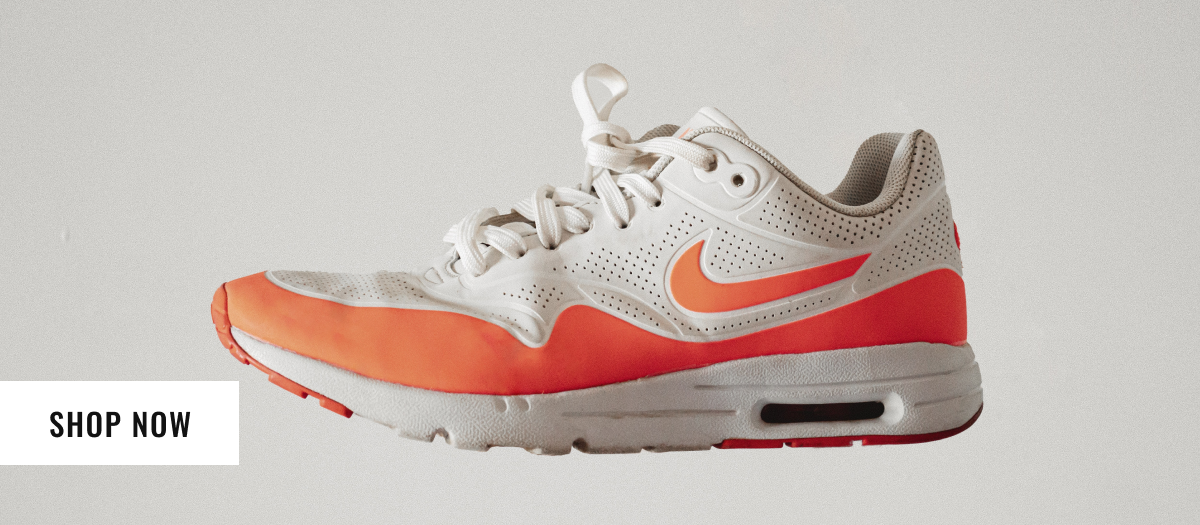
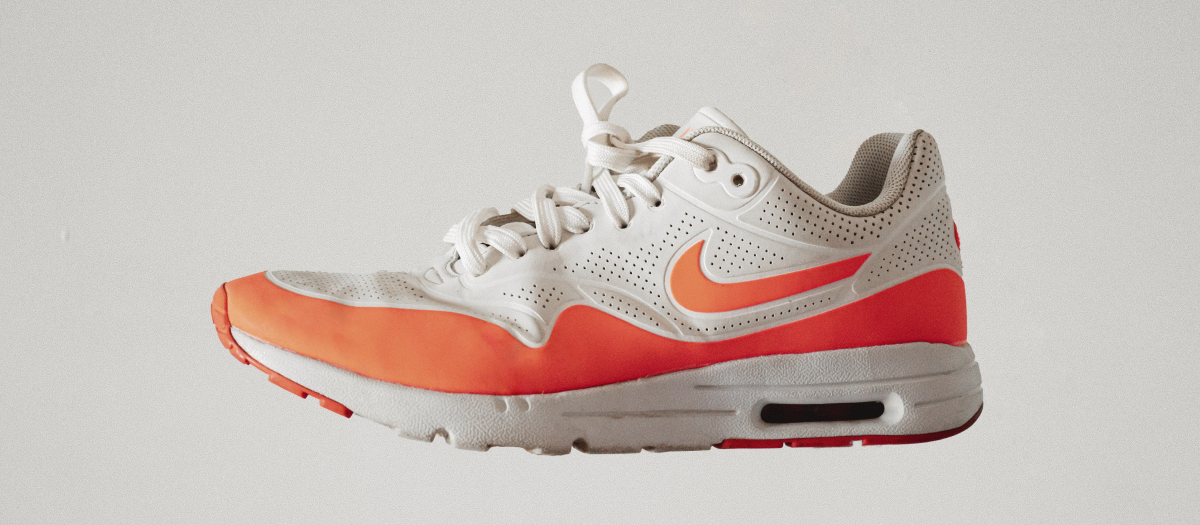
building homepage UI

Changed region(s): [[0.0, 0.701, 0.2158, 0.8838]]

diff --git a/frontent/components/Header.jsx b/frontent/components/Header.jsx
@@ -1,23 +1,105 @@
-import React from "react";
+import { useState, useEffect } from "react";
+import { IoMdHeartEmpty } from "react-icons/io";
+import { BsCart, BsChevronDown } from "react-icons/bs";
+import { BiSearch } from "react-icons/bi";
 
 import Wrapper from "./Wrapper";
 
 const Header = () => {
+    const [showCatMenu, setShowCatMenu] = useState(false);
+    const [show, setShow] = useState("top");
+    const [lastScrollY, setLastScrollY] = useState(0);
+
+    const controlNavbar = () => {
+        if (window.scrollY > 200) {
+            // if (window.scrollY > lastScrollY && !mobileMenu) {
+            if (window.scrollY > lastScrollY) {
+                setShow("-translate-y-[80px]"); // hide
+            } else {
+                setShow("shadow-sm"); // show
+            }
+        } else {
+            setShow("top");
+        }
+        setLastScrollY(window.scrollY);
+    };
+
+    useEffect(() => {
+        window.addEventListener("scroll", controlNavbar);
+        return () => {
+            window.removeEventListener("scroll", controlNavbar);
+        };
+    }, [lastScrollY]);
+
     return (
-        <header className="w-full h-[80px] flex items-center justify-between">
+        <header
+            className={`w-full h-[80px] bg-white flex items-center justify-between z-20 sticky top-0 transition-transform duration-300 translate-y-0 ${show}`}
+        >
             <Wrapper className="h-[60px] flex justify-between items-center">
                 <img src="/logo.svg" className="w-[60px]" />
 
-                <ul className="flex items-center gap-6">
-                    <li className="cursor-pointer hover:opacity-50">Home</li>
-                    <li className="cursor-pointer hover:opacity-50">About</li>
-                    <li className="cursor-pointer hover:opacity-50">
-                        Find a Store
+                {/* MENU START */}
+                <ul className="flex items-center gap-8 font-medium">
+                    <li className="cursor-pointer">Home</li>
+                    <li className="cursor-pointer">About</li>
+                    <li
+                        className="cursor-pointer flex items-center gap-2 relative"
+                        onMouseEnter={() => setShowCatMenu(true)}
+                        onMouseLeave={() => setShowCatMenu(false)}
+                    >
+                        Categories
+                        <BsChevronDown size={14} />
+                        {showCatMenu && (
+                            <ul className="bg-white absolute top-6 left-0 min-w-[200px] px-1 py-1 text-black shadow-lg">
+                                <li className="h-12 flex justify-between items-center px-3 hover:bg-black/[0.03] rounded-md">
+                                    Jordan
+                                    <span className="opacity-50 text-sm">{`(18)`}</span>
+                                </li>
+                                <li className="h-12 flex justify-between items-center px-3 hover:bg-black/[0.03] rounded-md">
+                                    Snikkers
+                                    <span className="opacity-50 text-sm">{`(73)`}</span>
+                                </li>
+                                <li className="h-12 flex justify-between items-center px-3 hover:bg-black/[0.03] rounded-md">
+                                    Running shoes
+                                    <span className="opacity-50 text-sm">{`(45)`}</span>
+                                </li>
+                                <li className="h-12 flex justify-between items-center px-3 hover:bg-black/[0.03] rounded-md">
+                                    Football shoes
+                                    <span className="opacity-50 text-sm">{`(9)`}</span>
+                                </li>
+                            </ul>
+                        )}
                     </li>
-                    <li className="cursor-pointer hover:opacity-50">
-                        Contact Us
-                    </li>
+                    <li className="cursor-pointer">Contact Us</li>
                 </ul>
+                {/* MENU END */}
+
+                {/* HEADER ICONS START */}
+                <div className="flex items-center gap-2">
+                    {/* <div class="flex items-center gap-2 h-11 w-[200px] rounded-[25px] px-4 bg-black/[0.025]">
+                        <BiSearch size={20} className="shrink-0" />
+                        <input
+                            class="text-lg bg-transparent outline-none grow"
+                            type="search"
+                            name="search"
+                            placeholder="Search"
+                            autoComplete="off"
+                        />
+                    </div> */}
+                    <div className="w-12 h-12 rounded-full flex justify-center items-center hover:bg-black/[0.05] cursor-pointer relative">
+                        <IoMdHeartEmpty size={24} />
+                        <div className="h-[18px] min-w-[18px] px-[5px] rounded-full bg-red-600 absolute top-1 left-7 text-white text-[12px] flex justify-center items-center">
+                            18
+                        </div>
+                    </div>
+                    <div className="w-12 h-12 rounded-full flex justify-center items-center hover:bg-black/[0.05] cursor-pointer relative">
+                        <BsCart size={20} />
+                        <div className="h-[18px] min-w-[18px] rounded-full bg-red-600 absolute top-1 left-7 text-white text-[12px] flex justify-center items-center">
+                            5
+                        </div>
+                    </div>
+                </div>
+                {/* HEADER ICONS END */}
             </Wrapper>
         </header>
     );

diff --git a/frontent/components/HomeBanner.jsx b/frontent/components/HomeBanner.jsx
@@ -6,11 +6,14 @@ import { BiArrowBack } from "react-icons/bi";
 
 const HomeBanner = () => {
     return (
-        <div className="relative text-white text-[20px]">
+        <div className="relative text-white text-[20px] w-full max-w-[1360px] mx-auto ">
             <Carousel
+                autoPlay={true}
+                infiniteLoop={true}
                 showThumbs={false}
                 showIndicators={false}
                 showStatus={false}
+                animationHandler="fade"
                 renderArrowPrev={(clickHandler, hasPrev) => (
                     <div
                         onClick={clickHandler}
@@ -28,9 +31,24 @@ const HomeBanner = () => {
                     </div>
                 )}
             >
-                <img src="/slide-1.png" />
-                <img src="/slide-2.png" />
-                <img src="/slide-3.png" />
+                <div>
+                    <img src="/slide-1.png" />
+                    <div className="px-[40px] py-[25px] font-oswald bg-white absolute bottom-[75px] left-0 text-black/[0.9] text-[30px] uppercase font-medium cursor-pointer hover:opacity-90">
+                        Shop now
+                    </div>
+                </div>
+                <div>
+                    <img src="/slide-2.png" />
+                    <div className="px-[40px] py-[25px] font-oswald bg-white absolute bottom-[75px] left-0 text-black/[0.9] text-[30px] uppercase font-medium cursor-pointer hover:opacity-90">
+                        Shop now
+                    </div>
+                </div>
+                <div>
+                    <img src="/slide-3.png" />
+                    <div className="px-[40px] py-[25px] font-oswald bg-white absolute bottom-[75px] left-0 text-black/[0.9] text-[30px] uppercase font-medium cursor-pointer hover:opacity-90">
+                        Shop now
+                    </div>
+                </div>
             </Carousel>
         </div>
     );

diff --git a/frontent/pages/index.js b/frontent/pages/index.js
@@ -1,11 +1,33 @@
 import Wrapper from "@/components/Wrapper";
 import HomeBanner from "@/components/HomeBanner";
+import ProductCard from "@/components/ProductCard";
 
 export default function Home() {
     return (
         <main className="">
-            <Wrapper className="flex">
-                <HomeBanner />
+            <HomeBanner />
+            <Wrapper>
+                <div className="text-center max-w-[800px] mx-auto my-[80px]">
+                    <div className="text-[34px] mb-5 font-semibold">
+                        Cushioning for Your Miles
+                    </div>
+                    <div className="text-xl">
+                        A lightweight Nike ZoomX midsole is combined with
+                        increased stack heights to help provide cushioning
+                        during extended stretches of running.
+                    </div>
+                </div>
+                <div className="grid grid-cols-3 gap-5 my-14">
+                    <ProductCard />
+                    <ProductCard />
+                    <ProductCard />
+                    <ProductCard />
+                    <ProductCard />
+                    <ProductCard />
+                    <ProductCard />
+                    <ProductCard />
+                    <ProductCard />
+                </div>
             </Wrapper>
         </main>
     );

diff --git a/frontent/components/ProductCard.jsx b/frontent/components/ProductCard.jsx
@@ -1,0 +1,21 @@
+import React from "react";
+
+const ProductCard = () => {
+    return (
+        <div class="transform overflow-hidden bg-white duration-200 hover:scale-105 cursor-pointer">
+            <img class="w-full" src="/product-1.webp" alt="Product Image" />
+            <div class="p-4 text-black/[0.9]">
+                <h2 class="text-lg font-medium">Product Name</h2>
+                <div class="flex items-center text-black/[0.5]">
+                    <p class="mr-2 text-lg font-semibold">$20.00</p>
+                    <p class="text-base  font-medium line-through">$25.00</p>
+                    <p class="ml-auto text-base font-medium text-green-500">
+                        20% off
+                    </p>
+                </div>
+            </div>
+        </div>
+    );
+};
+
+export default ProductCard;

diff --git a/frontent/styles/globals.css b/frontent/styles/globals.css
@@ -7,7 +7,7 @@
     font-weight: 400;
     font-size: 16px;
     line-height: 24px;
-    letter-spacing: 0.12em;
+    letter-spacing: 1px;
 
     color: rgba(0, 0, 0, 1);
 
